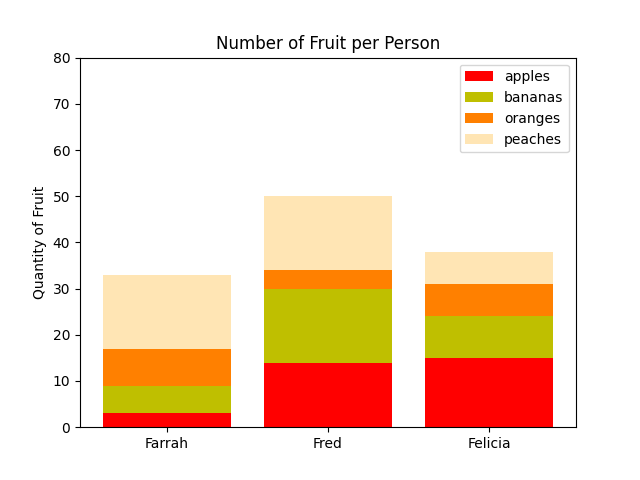
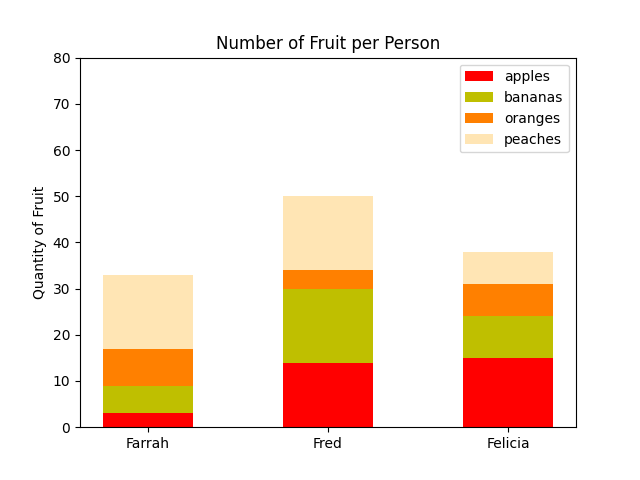
gitpusher

diff --git a/math/plotting/6-bars.py b/math/plotting/6-bars.py
@@ -23,14 +23,15 @@ def bars():
     # variables
     names = ['Farrah', 'Fred', 'Felicia']
     fruits = ['apples', 'bananas', 'oranges', 'peaches']
+    #plt.rcParams['lines.linewidth'] = 0.5
 
     # bar settings
-    plt.bar(names, data[0], color='r', label=fruits[0])
-    plt.bar(names, data[1], color='y',
+    plt.bar(names, data[0], color='r', label=fruits[0], width = 0.5)
+    plt.bar(names, data[1], color='y', width = 0.5,
             bottom=data[0], label=fruits[1])
-    plt.bar(names, data[2], color='#ff8000',
+    plt.bar(names, data[2], color='#ff8000', width = 0.5,
             bottom=data[0] + data[1], label=fruits[2])
-    plt.bar(names, data[3], color='#ffe5b4',
+    plt.bar(names, data[3], color='#ffe5b4', width = 0.5,
             bottom=data[0] + data[1] + data[2], label=fruits[3])
 
     # plot settings
